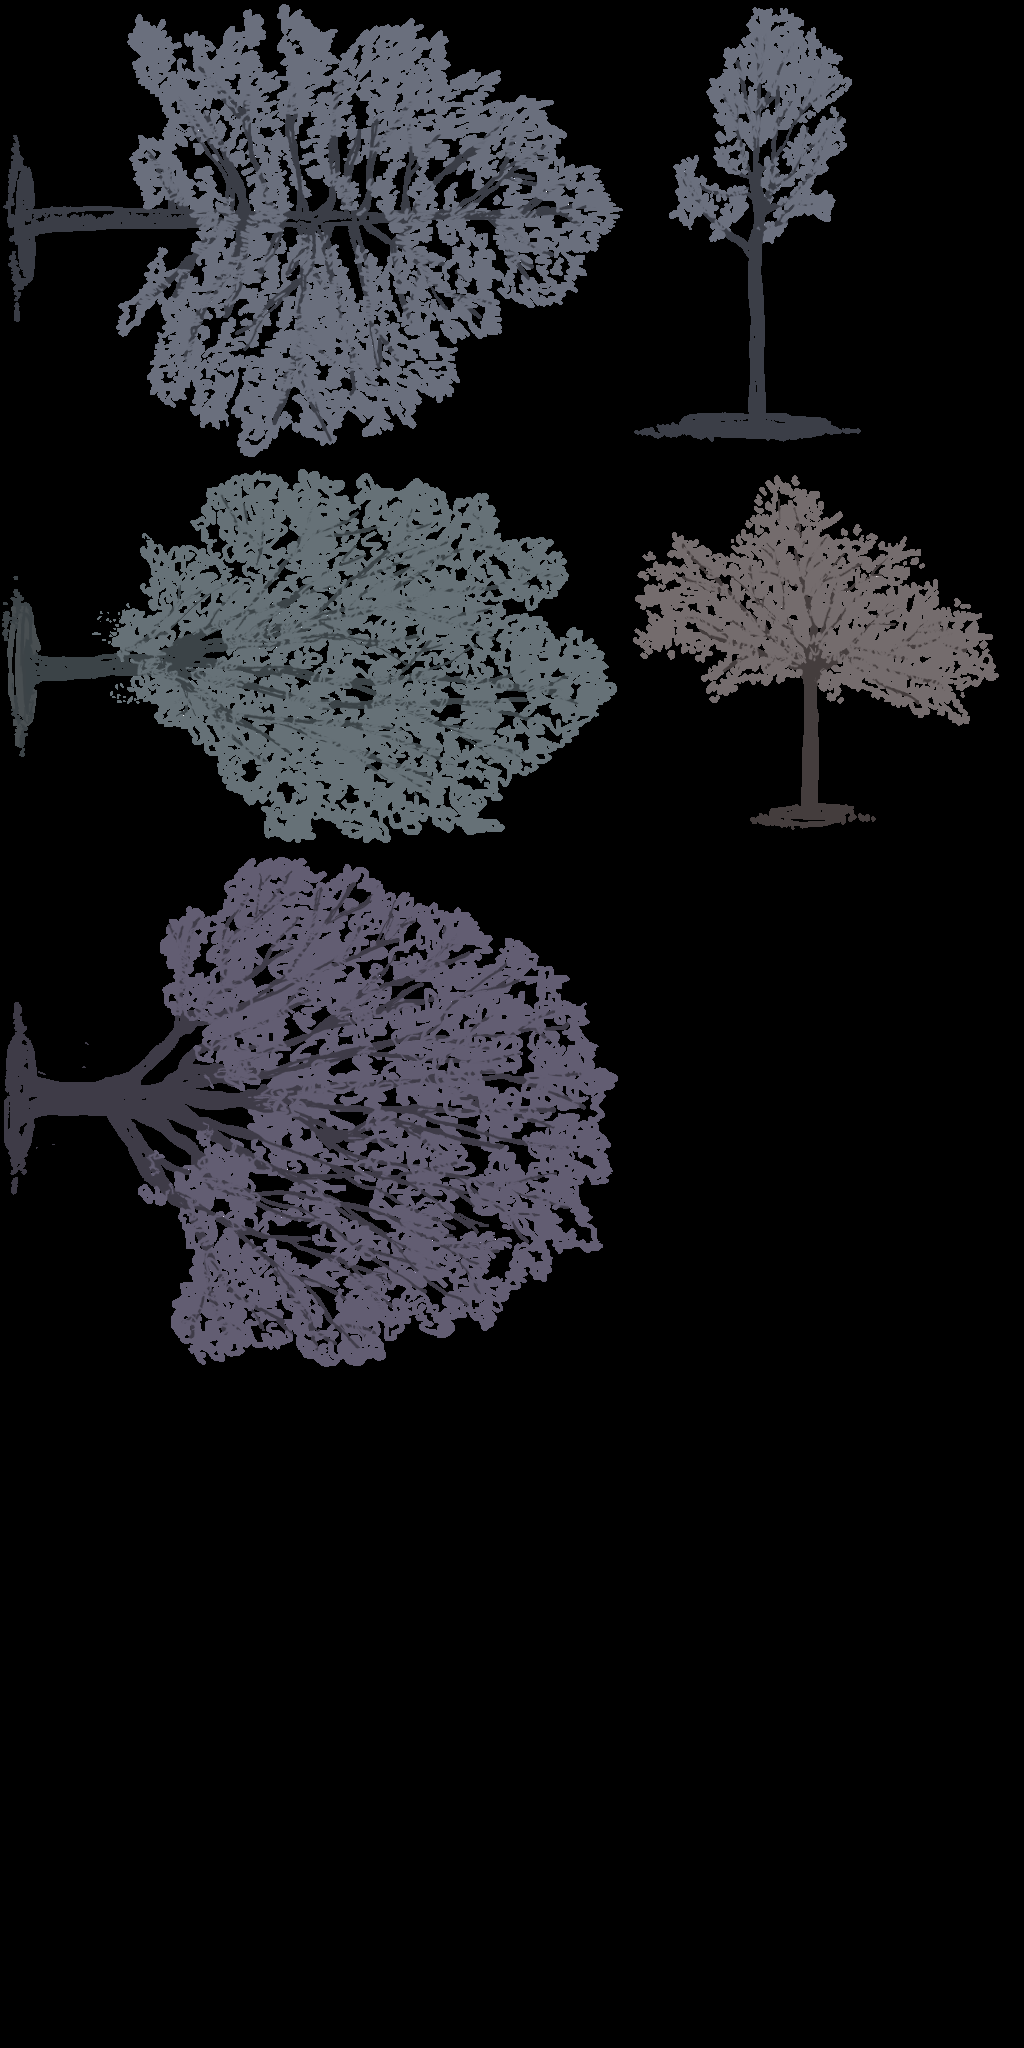
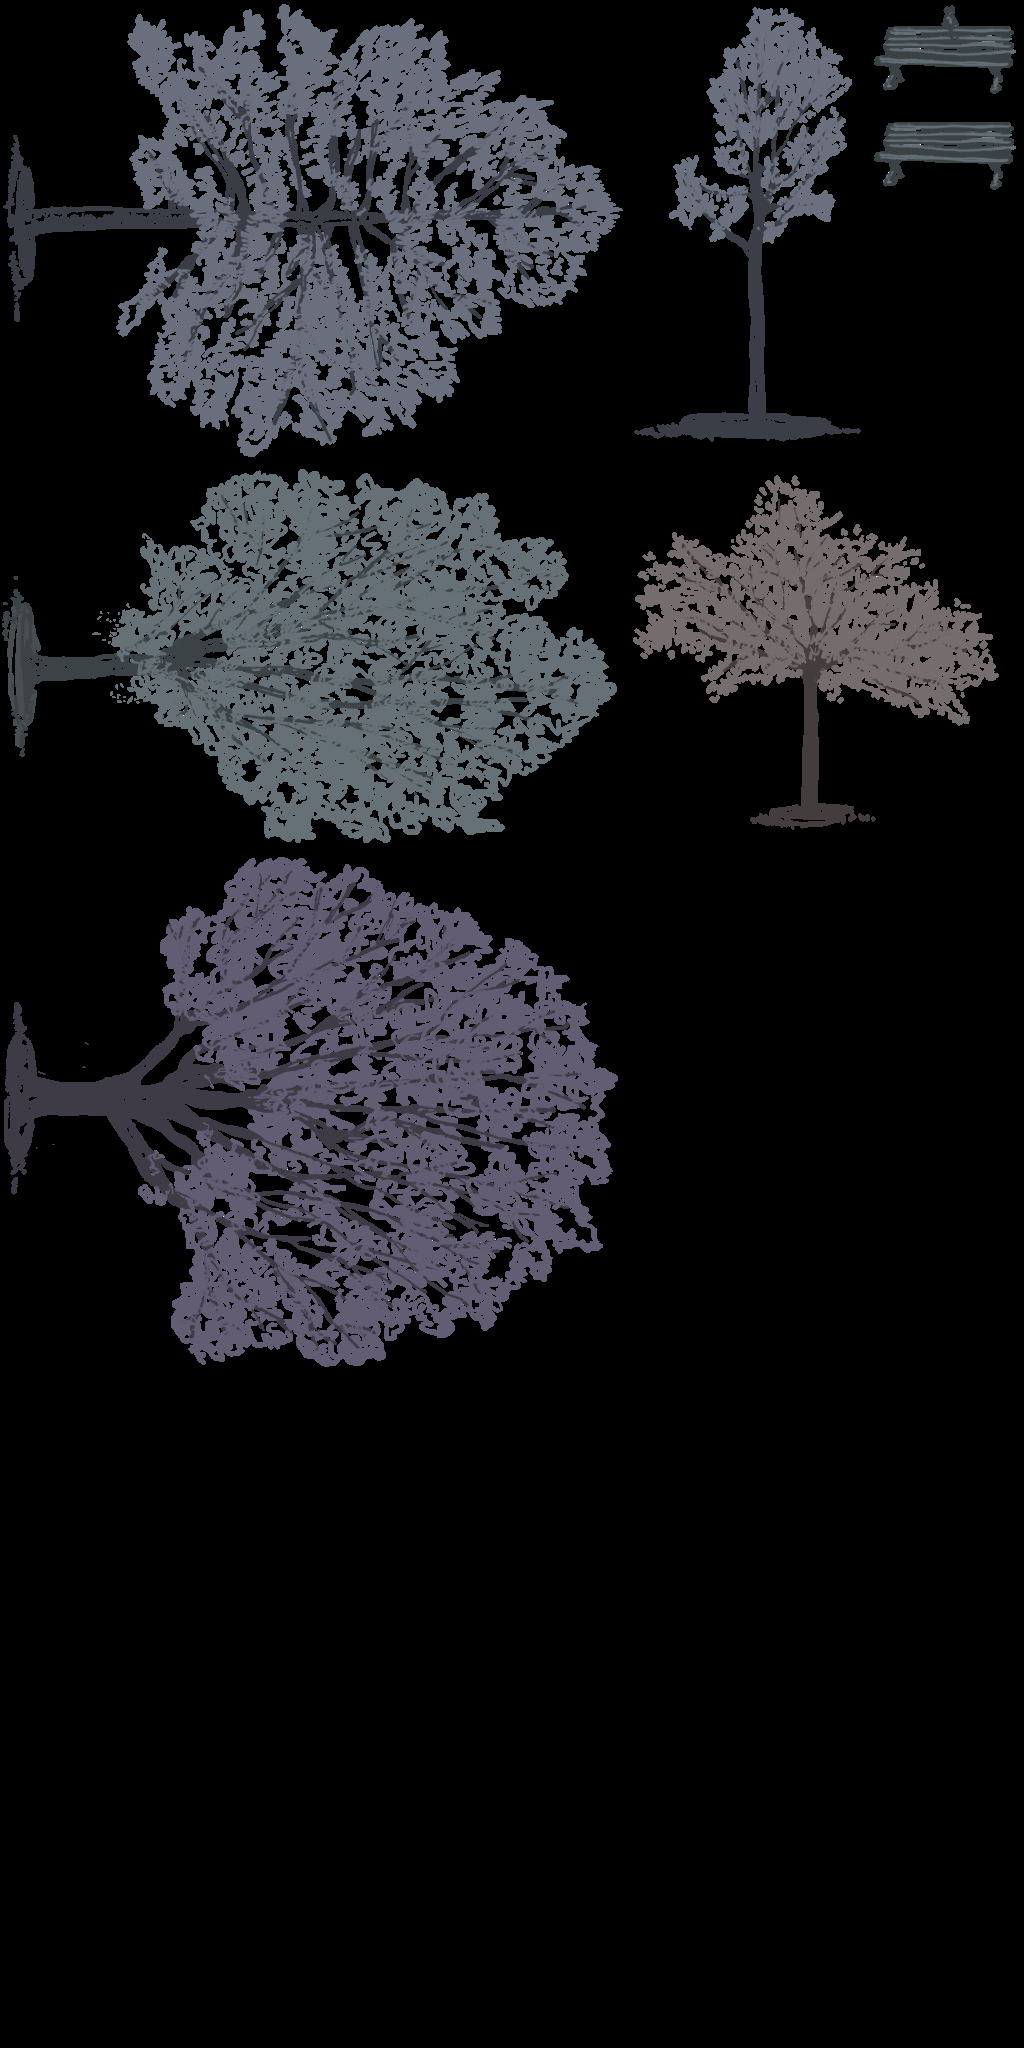
Added benchs

Changed region(s): [[0.8438, 0.0, 1.0, 0.0938]]

diff --git a/sources/RecursiveRunnerGame.cpp b/sources/RecursiveRunnerGame.cpp
@@ -208,7 +208,7 @@ void decor() {
     PlacementHelper::ScreenWidth *= 3;
     PlacementHelper::GimpWidth = 1280 * 3;
     PlacementHelper::GimpHeight = 800;
-    int count = 20;
+    int count = 26;
     struct Decor {
     	float x, y, z;
     	TransformationSystem::PositionReference ref;
@@ -223,10 +223,10 @@ void decor() {
 		Decor(554, 149, 0.2, TransformationSystem::NE, "immeuble"),
 		Decor(1690, 149, 0.2, TransformationSystem::NE, "immeuble"),
 		Decor(3173, 139, 0.2, TransformationSystem::NW, "immeuble"),
-		Decor(358, 404, 0.3, TransformationSystem::NW, "maison", true),
-		Decor(2097, 400, 0.3, TransformationSystem::NE, "maison"),
-		Decor(2053, 244, 0.4, TransformationSystem::NW, "usine_desaf"),
-		Decor(3185, 298, 0.25, TransformationSystem::NE, "usine2", true),
+		Decor(358, 404, 0.25, TransformationSystem::NW, "maison", true),
+		Decor(2097, 400, 0.25, TransformationSystem::NE, "maison"),
+		Decor(2053, 244, 0.3, TransformationSystem::NW, "usine_desaf"),
+		Decor(3185, 298, 0.22, TransformationSystem::NE, "usine2", true),
 		// trees
 		Decor(152, 780, 0.5, TransformationSystem::S, "arbre3"),
 		Decor(522, 780, 0.5, TransformationSystem::S, "arbre2"),
@@ -241,6 +241,13 @@ void decor() {
 		Decor(3290, 764, 0.41, TransformationSystem::S, "arbre1"),
 		Decor(3538, 768, 0.44, TransformationSystem::S, "arbre2"),
 		Decor(3820, 772, 0.5, TransformationSystem::S, "arbre4"),
+		// benchs
+		Decor(672, 768, 0.3, TransformationSystem::S, "bench_cat"),
+		Decor(1090, 764, 0.3, TransformationSystem::S, "bench"),
+		Decor(2082, 760, 0.3, TransformationSystem::S, "bench", true),
+		Decor(2526, 762, 0.3, TransformationSystem::S, "bench"),
+		Decor(3464, 758, 0.3, TransformationSystem::S, "bench_cat"),
+		Decor(3612, 762, 0.6, TransformationSystem::S, "bench"),
     };
     for (int i=0; i<count; i++) {
     	const Decor& bdef = def[i];
@@ -252,6 +259,7 @@ void decor() {
 	    ADD_COMPONENT(b, Rendering);
 	    RENDERING(b)->texture = theRenderingSystem.loadTextureFile(bdef.texture);
 	    RENDERING(b)->hide = false;
+	    RENDERING(b)->mirrorH = bdef.mirrorUV;
 	    // RENDERING(b)->cameraBitMask = (0x3 << 1);
 	    decorEntities.push_back(b);
 	}
@@ -772,6 +780,7 @@ static GameState updatePlaying(float dt) {
                         	int linkIdx = (rc->speed > 0) ? idx : end - idx;
                             if (rc->coins.back() == prev) {
                                 rc->coinSequenceBonus++;
+                                #if 0
                                 if (rc->speed > 0) {
                                 	for (int j=1; j<rc->coinSequenceBonus; j++) {
                                 		float t = 1 * ((rc->coinSequenceBonus - (j - 1.0)) / (float)rc->coinSequenceBonus);
@@ -786,6 +795,7 @@ static GameState updatePlaying(float dt) {
                                 			1 * ((rc->coinSequenceBonus - (j - 1.0)) / (float)rc->coinSequenceBonus);
                                 	}
                                 }
+                                #endif
                                 
                             } else {
                                 rc->coinSequenceBonus = 1;
@@ -957,7 +967,7 @@ static void createCoins(int count) {
         } while (notFarEnough);
         TRANSFORM(e)->position = p;
         TRANSFORM(e)->rotation = -0.1 + MathUtil::RandomFloat() * 0.2;
-        TRANSFORM(e)->z = 0.5;
+        TRANSFORM(e)->z = 0.75;
         ADD_COMPONENT(e, Rendering);
         RENDERING(e)->texture = theRenderingSystem.loadTextureFile("ampoule");
         RENDERING(e)->cameraBitMask = (0x3 << 1);
@@ -973,6 +983,7 @@ static void createCoins(int count) {
         #endif
         coins.push_back(e);
     }
+    #if 0
     std::sort(coins.begin(), coins.end(), sortLeftToRight);
     const Vector2 offset = Vector2(PlacementHelper::GimpWidthToScreen(7), PlacementHelper::GimpHeightToScreen(44));
     Vector2 previous = Vector2(-LEVEL_SIZE * PlacementHelper::ScreenWidth * 0.5, 0);
@@ -1008,6 +1019,7 @@ static void createCoins(int count) {
     	previous = topI;
     	gameTempVars.links.push_back(link);
     }
+    #endif
     
     RENDERING(goldCoin)->color = Color(0, 1, 0);
 }
@@ -1067,7 +1079,7 @@ static Entity addRunnerToPlayer(Entity player, PlayerComponent* p, int playerInd
     TRANSFORM(e)->rotation = 0;
     TRANSFORM(e)->z = 0.8 + 0.01 * p->runnersCount;
     ADD_COMPONENT(e, Rendering);
-    RENDERING(e)->color = Color(1 - playerIndex, playerIndex, 1);
+    // RENDERING(e)->color = Color(1 - playerIndex, playerIndex, 1);
     RENDERING(e)->hide = false;
     RENDERING(e)->cameraBitMask = (0x3 << 1);
     ADD_COMPONENT(e, Runner);
